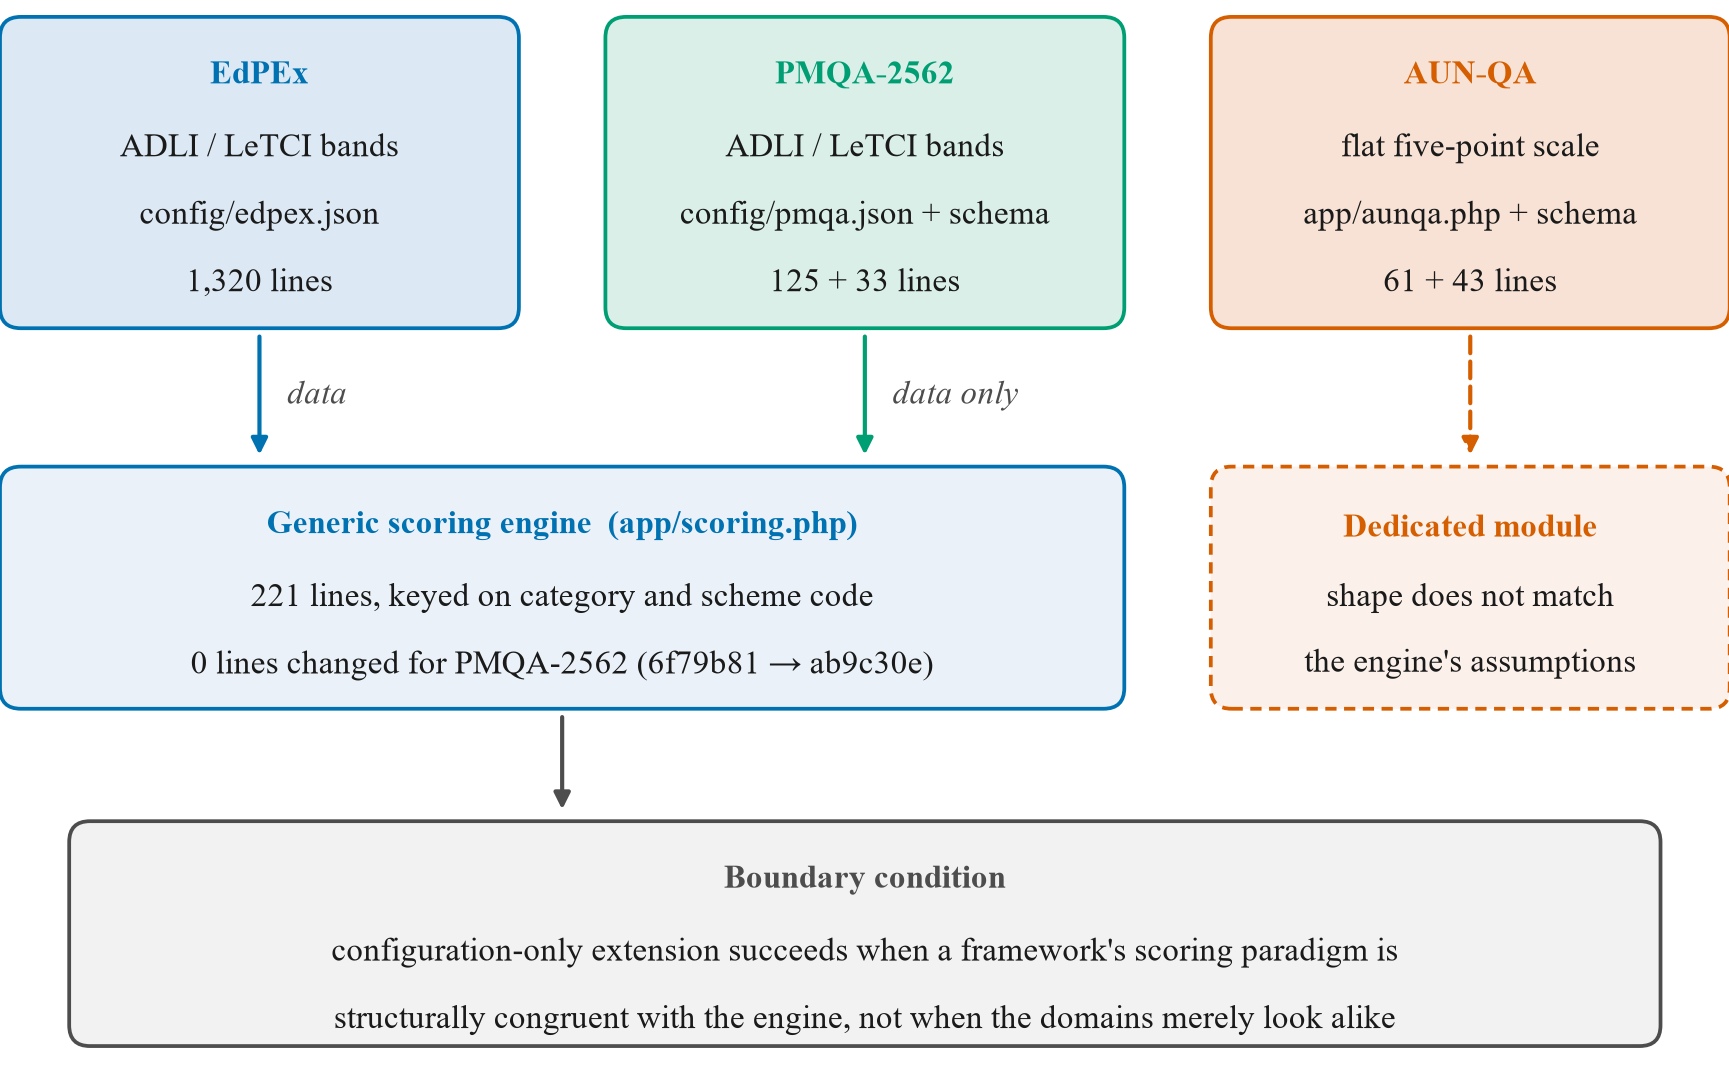
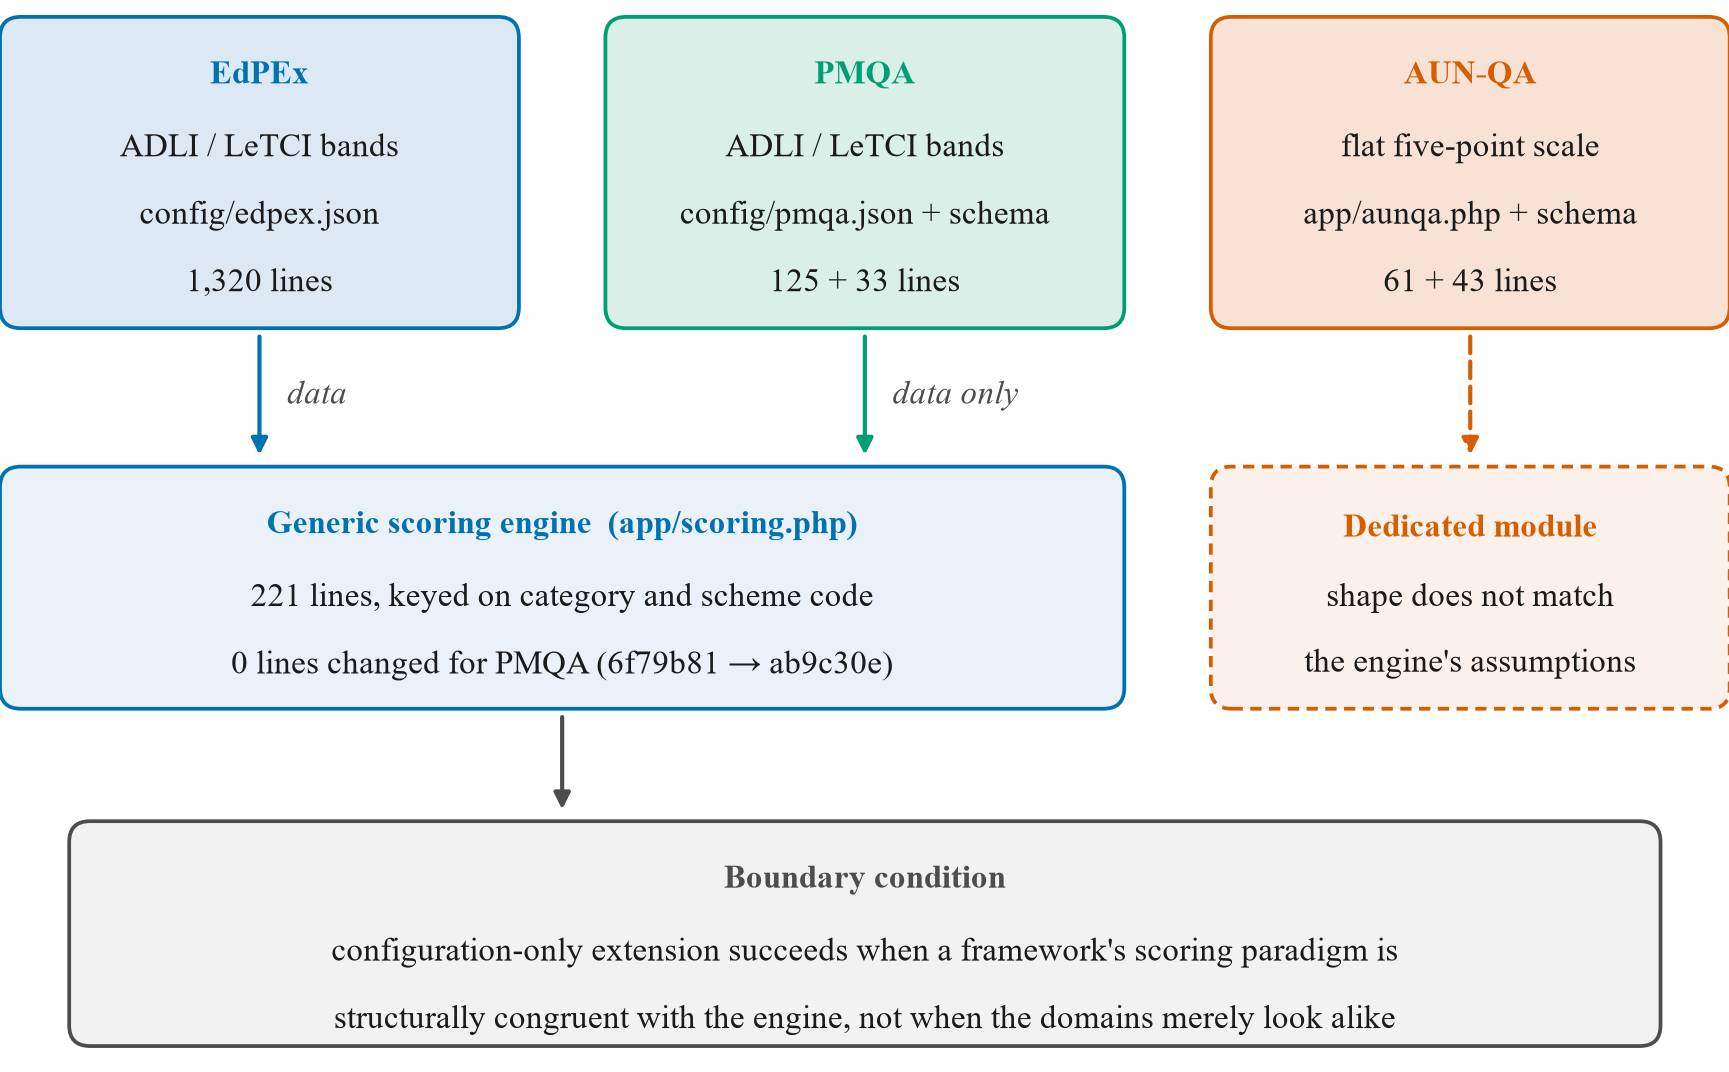
Refer to the framework as PMQA (2019 edition) and note its Baldrige origin

Changed region(s): [[0.1249, 0.5849, 0.5309, 0.6465], [0.4372, 0.0616, 0.5622, 0.0924]]

diff --git a/figures/generate_figure1.py b/figures/generate_figure1.py
@@ -76,7 +76,7 @@ def main() -> None:
     xs = [0, cw + gap, 2 * (cw + gap)]
     box(xs[0], 43, cw, 18, "EdPEx", ["ADLI / LeTCI bands", "config/edpex.json", "%s lines" % f"{n_edpex:,}"],
         BLUE, "#DCE9F5")
-    box(xs[1], 43, cw, 18, "PMQA-2562", ["ADLI / LeTCI bands", "config/pmqa.json + schema",
+    box(xs[1], 43, cw, 18, "PMQA", ["ADLI / LeTCI bands", "config/pmqa.json + schema",
                                          "%d + %d lines" % (n_pmqa, n_pmqa_sql)], GREEN, "#D9EFE8")
     box(xs[2], 43, cw, 18, "AUN-QA", ["flat five-point scale", "app/aunqa.php + schema",
                                       "%d + %d lines" % (n_aun, n_aun_sql)], ORANGE, "#F7E2D5")
@@ -84,7 +84,7 @@ def main() -> None:
     # the shared engine
     box(0, 21, 65, 14, "Generic scoring engine  (app/scoring.php)",
         ["%d lines, keyed on category and scheme code" % n_engine,
-         "0 lines changed for PMQA-2562 (6f79b81 → ab9c30e)"], BLUE, "#EAF1F8")
+         "0 lines changed for PMQA (6f79b81 → ab9c30e)"], BLUE, "#EAF1F8")
 
     arrow((xs[0] + cw / 2, 43), (xs[0] + cw / 2, 35.2), BLUE)
     arrow((xs[1] + cw / 2, 43), (xs[1] + cw / 2, 35.2), GREEN)

diff --git a/README.md b/README.md
@@ -1,8 +1,10 @@
-# PMQA-2562 Extension Artifact
+# PMQA Extension Artifact
+
+PMQA here is the Thai Public Sector Management Quality Award criteria, 2019 (B.E. 2562) edition, adapted by the Office of the Public Sector Development Commission from the Malcolm Baldrige National Quality Award.
 
 Reproducibility artifact for the paper *"Framework-Agnostic Extensibility of a
 Schema-as-Data Quality-Assessment Platform: An Empirical Extension Study from
-EdPEx to PMQA-2562"* (submitted to PeerJ Computer Science).
+EdPEx to PMQA"* (submitted to PeerJ Computer Science).
 
 This is a **focused extract** of the relevant files from the authors' larger
 institutional EdPEx information system (utkic), containing exactly the files
@@ -13,7 +15,7 @@ not discussed in this paper).
 ## What this demonstrates
 
 `app/scoring.php` is the shared ADLI/LeTCI scoring engine, used unmodified by
-both EdPEx (`config/edpex.json`) and the PMQA-2562 extension
+both EdPEx (`config/edpex.json`) and the PMQA extension
 (`config/pmqa.json`) added for this paper. `app/aunqa.php` +
 `schema/008_aunqa.sql` is the contrasting AUN-QA case, which required a
 dedicated module rather than configuration alone.
@@ -21,15 +23,15 @@ dedicated module rather than configuration alone.
 ## Files
 
 ```
-app/scoring.php          — the ADLI/LeTCI scoring engine (0 lines changed to add PMQA-2562)
+app/scoring.php          — the ADLI/LeTCI scoring engine (0 lines changed to add PMQA)
 app/aunqa.php             — the AUN-QA integration module (contrasting, module-based case)
 config/edpex.json         — EdPEx rubric configuration
-config/pmqa.json          — PMQA-2562 rubric configuration (new, config-only)
+config/pmqa.json          — PMQA rubric configuration (new, config-only)
 schema/008_aunqa.sql       — AUN-QA schema migration (new tables required)
-schema/156_pmqa.sql        — PMQA-2562 schema migration (framework_code registration only)
+schema/156_pmqa.sql        — PMQA schema migration (framework_code registration only)
 tests/bootstrap.php        — PHPUnit bootstrap (requires ../config/config.php, not included — see below)
 tests/Scoring/ScoringTest.php  — 6 tests for the EdPEx scoring path
-tests/Pmqa/PmqaScoringTest.php — 5 tests for the PMQA-2562 scoring path
+tests/Pmqa/PmqaScoringTest.php — 5 tests for the PMQA scoring path
 ```
 
 ## Running the tests
@@ -55,7 +57,7 @@ Expected result at the time of writing: 11 tests, 46 assertions, all passing.
 ## Provenance
 
 Extracted from the authors' private institutional repository at commit
-`ab9c30e` (PMQA-2562 addition) / `6f79b81` (base test/CI infrastructure).
+`ab9c30e` (PMQA addition) / `6f79b81` (base test/CI infrastructure).
 The full repository is not yet public; this artifact is provided specifically
 to support review and reproducibility of this paper's claims.
 
